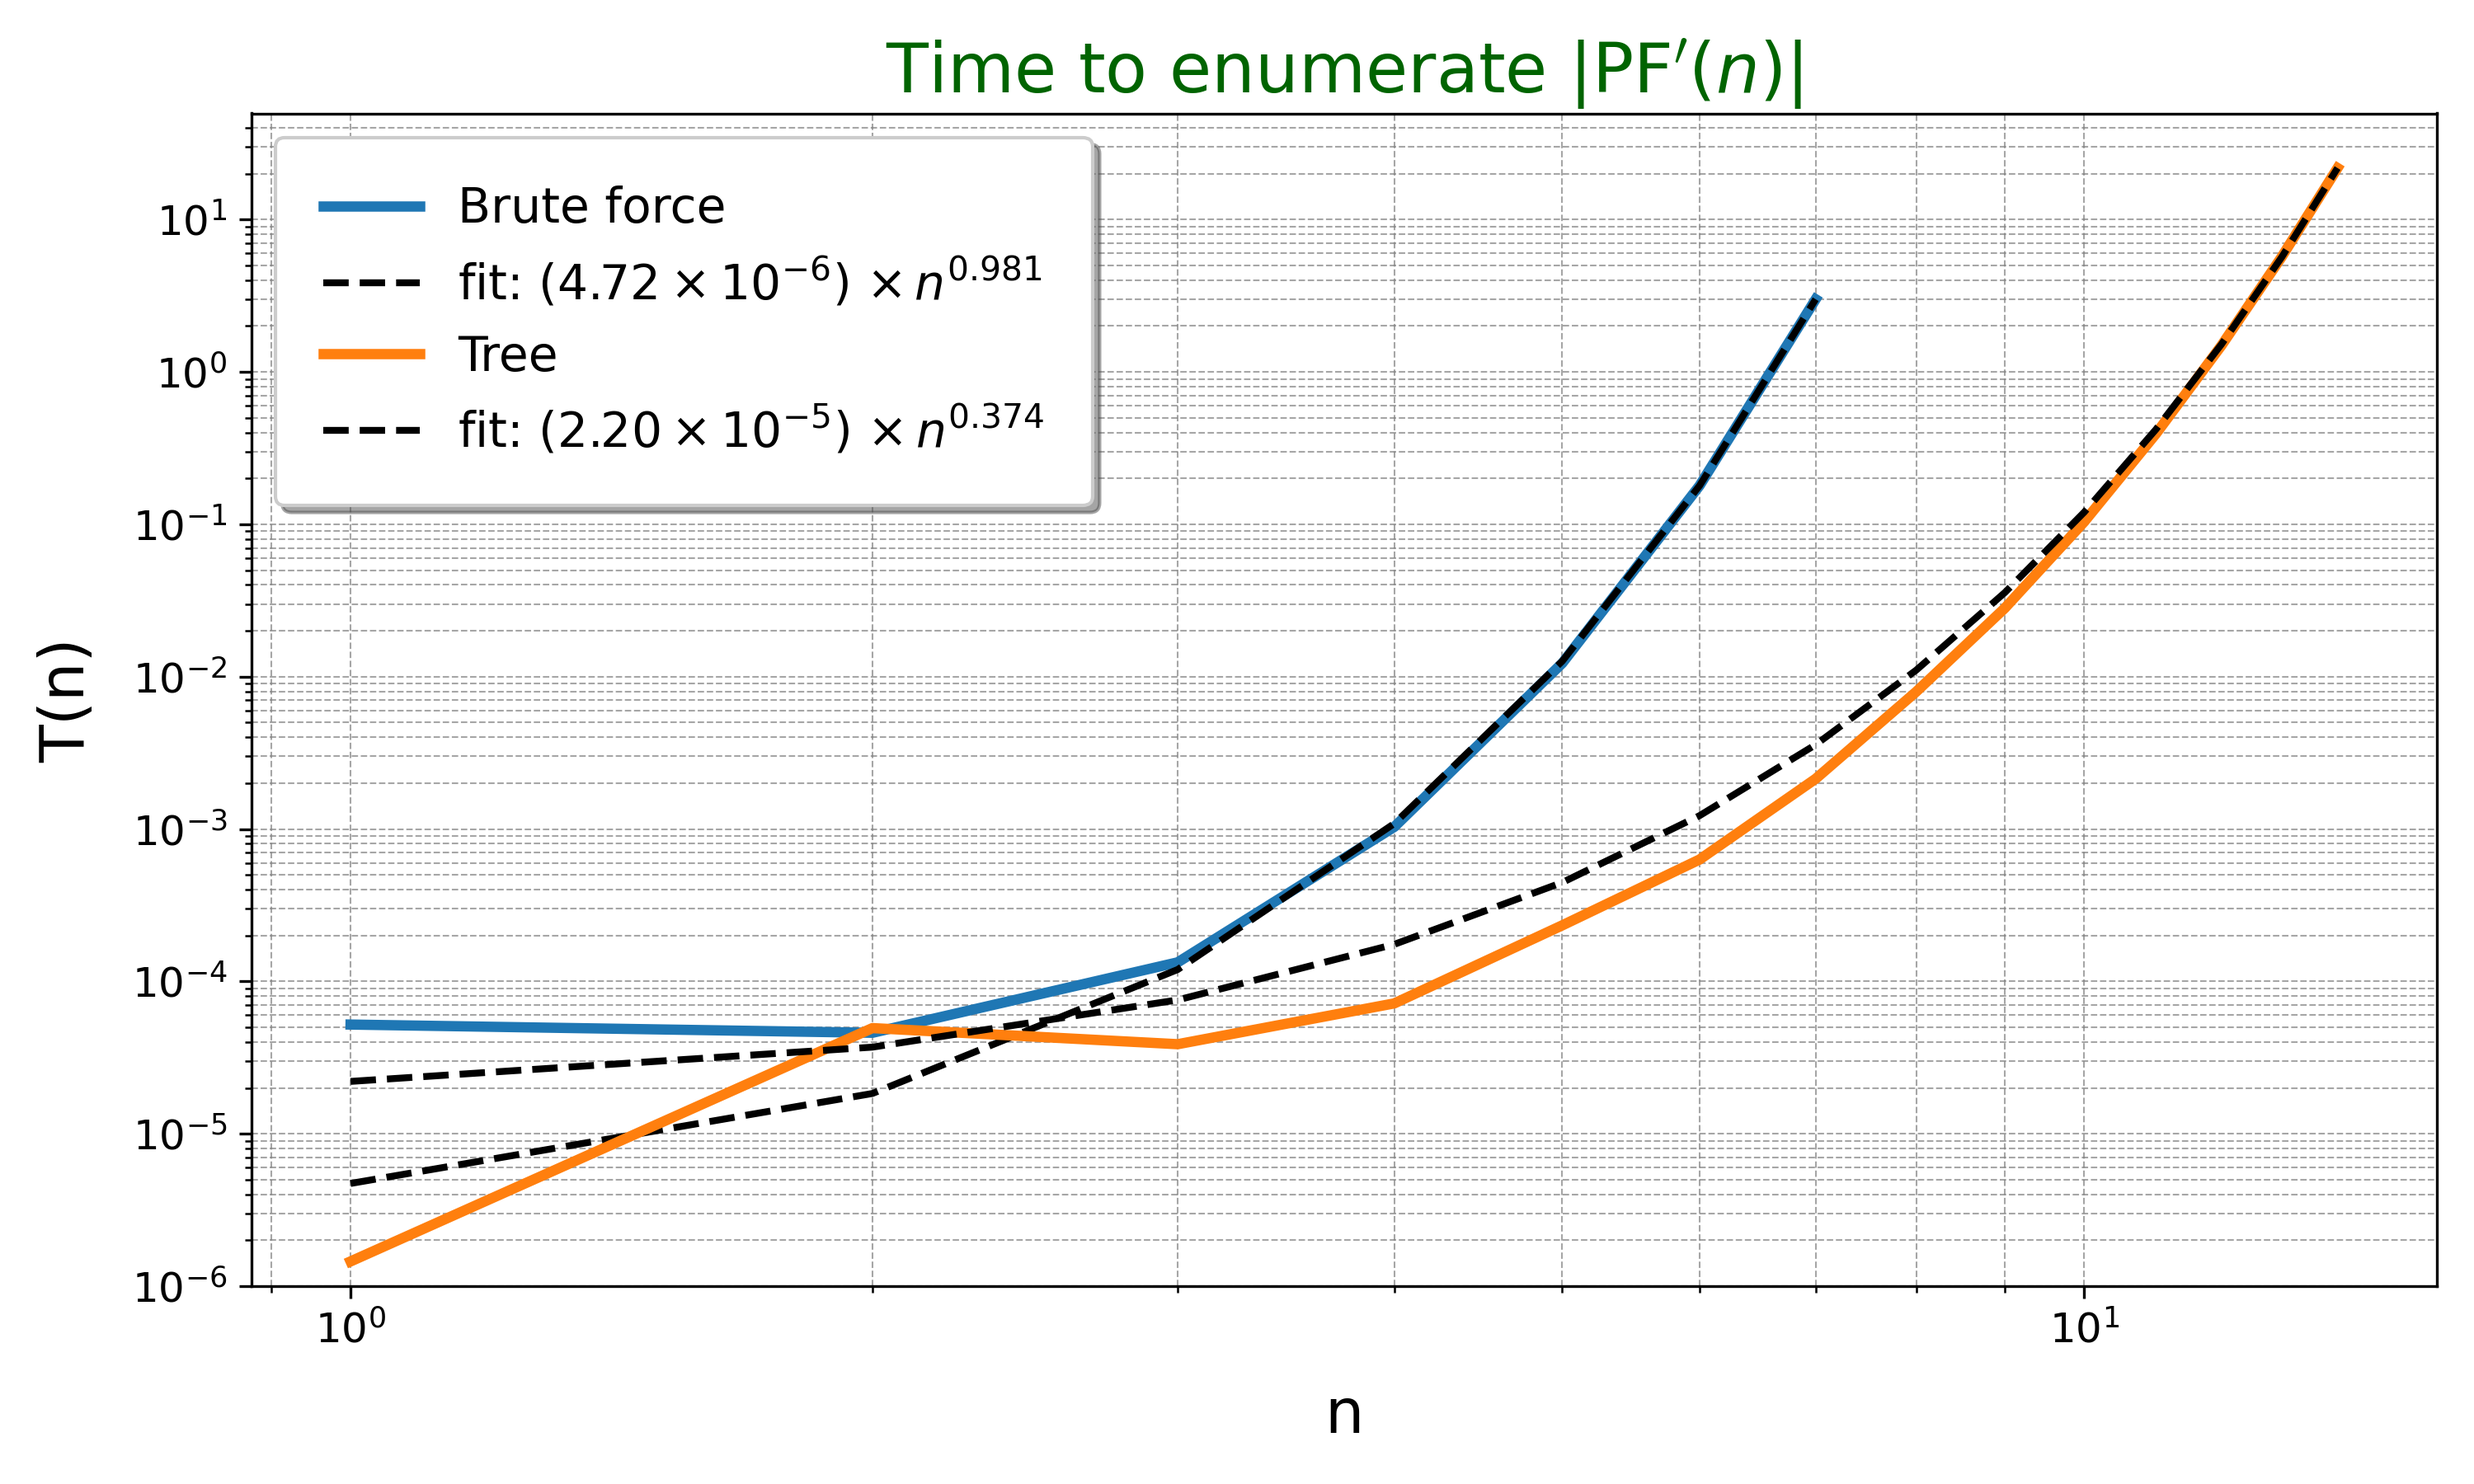
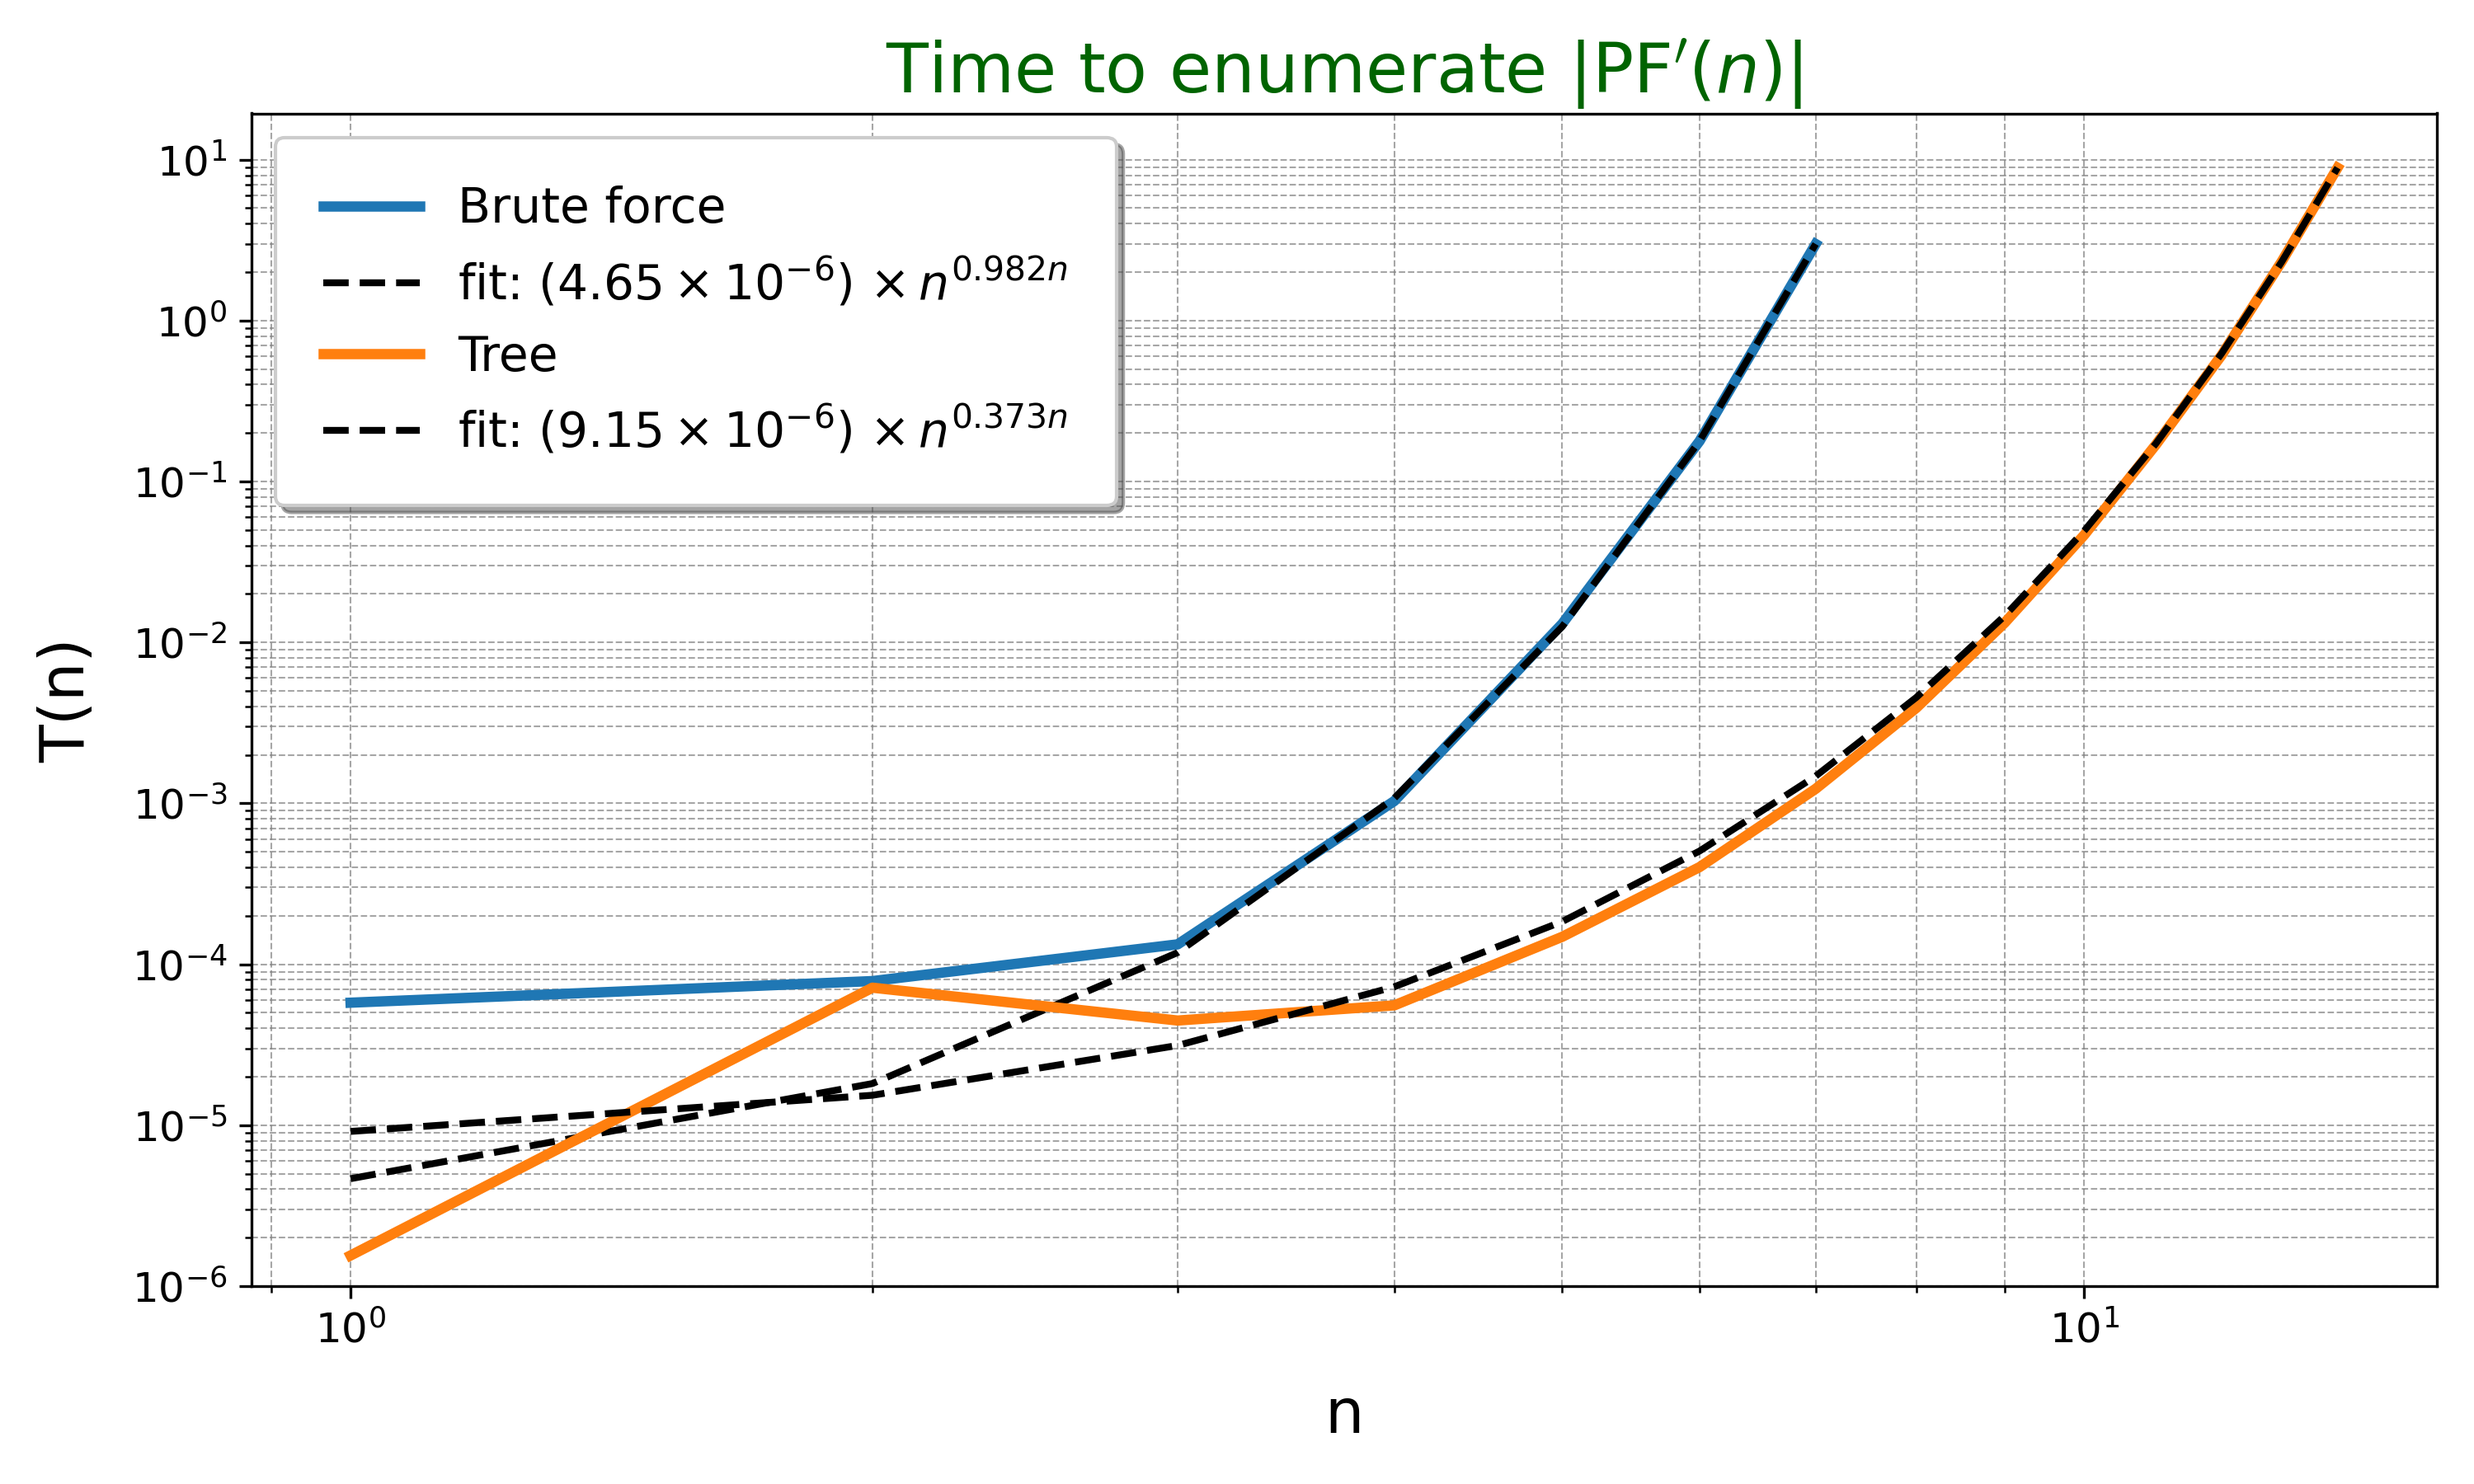
add memoization factorial

diff --git a/functions.py b/functions.py
@@ -19,6 +19,46 @@ along with this program.  If not, see <https://www.gnu.org/licenses/>.
 import numpy as np
 import re
 from scipy.special import factorial, comb
+from collections.abc import Hashable
+from functools import partial
+
+
+class memoized(object):
+    """Decorator. Caches a function's return value each time it is called.
+    If called later with the same arguments, the cached value is returned
+    (not reevaluated).
+
+    source: https://wiki.python.org/moin/PythonDecoratorLibrary#Memoize
+    """
+
+    def __init__(self, func):
+        self.func = func
+        self.cache = {}
+
+    def __call__(self, *args):
+        if not isinstance(args, Hashable):
+            # uncacheable. a list, for instance.
+            # better to not cache than blow up.
+            return self.func(*args)
+        if args in self.cache:
+            return self.cache[args]
+        else:
+            value = self.func(*args)
+            self.cache[args] = value
+            return value
+
+    def __repr__(self):
+        """Return the function's docstring."""
+        return self.func.__doc__
+
+    def __get__(self, obj, objtype):
+        """Support instance methods."""
+        return partial(self.__call__, obj)
+
+
+@memoized
+def exact_factorial(n):
+    return factorial(n, exact=True)
 
 
 class Tree(object):
@@ -72,7 +112,7 @@ class Tree(object):
 
 
 def catalan_num(n):
-    return comb(2*n,n,exact=True) // (n+1)
+    return comb(2 * n, n, exact=True) // (n + 1)
 
 
 def get_last_name(name):
@@ -162,7 +202,7 @@ def tree_enum(n, prev_tree=None):
         tree = Tree("1")
         enum = 1
         return enum, tree
-    
+
     else:
         assert prev_tree.get_height() == n - 1
 
@@ -179,18 +219,14 @@ def tree_enum(n, prev_tree=None):
 
 def num_unique_perms_from_str(name):
 
-    arr = np.array([int(x) for x in re.split(",", name)])
-    unq = set(arr)
+    arr = np.array([int(x) for x in name.split(",")])
+    unique, counts = np.unique(arr, return_counts=True)
+    
+    total_perms = exact_factorial(len(arr))
+    for x in counts:
+        total_perms //= exact_factorial(x)
 
-    count = [None] * len(unq)
-    for i, u in enumerate(unq):
-        count[i] = len(np.argwhere(arr == u))
-
-    num = factorial(len(arr), exact=True)
-    for x in count:
-        num = num // factorial(x, exact=True)
-
-    return num
+    return total_perms
 
 
 def test_primePF(f):
@@ -205,4 +241,3 @@ def test_primePF(f):
             return False
 
     return True
-

diff --git a/plot_times.py b/plot_times.py
@@ -78,7 +78,7 @@ def main():
         fit_xpowx(xBF, *optBF),
         ls="dashed",
         color="k",
-        label=rf"fit: "+print_pow10(optBF[0])+rf" $\times \, n^{{{optBF[1]:5.3f}}}$",
+        label=rf"fit: "+print_pow10(optBF[0])+rf" $\times \, n^{{{optBF[1]:5.3f} n}}$",
         lw=2,
     )
     ax.plot(xTR, timeTR, label="Tree", lw=3)
@@ -87,7 +87,7 @@ def main():
         fit_xpowx(xTR, *optTR),
         ls="dashed",
         color="k",
-        label=rf"fit: "+print_pow10(optTR[0])+rf" $\times \, n^{{{optTR[1]:5.3f}}}$",
+        label=rf"fit: "+print_pow10(optTR[0])+rf" $\times \, n^{{{optTR[1]:5.3f} n}}$",
         lw=2,
     )
     ax.grid(visible=True, which='both', color='gray', linestyle='--', linewidth=0.5, alpha=0.7)
